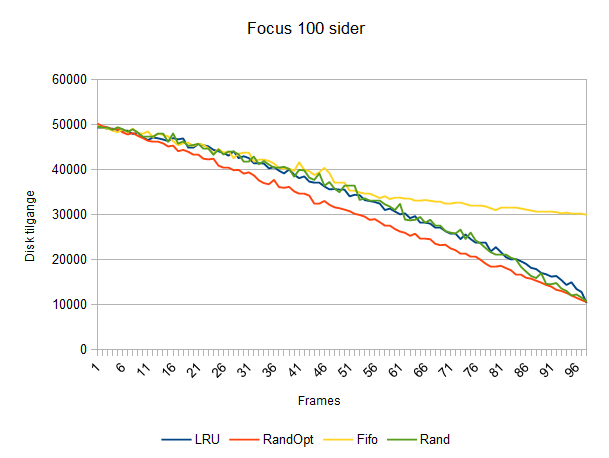
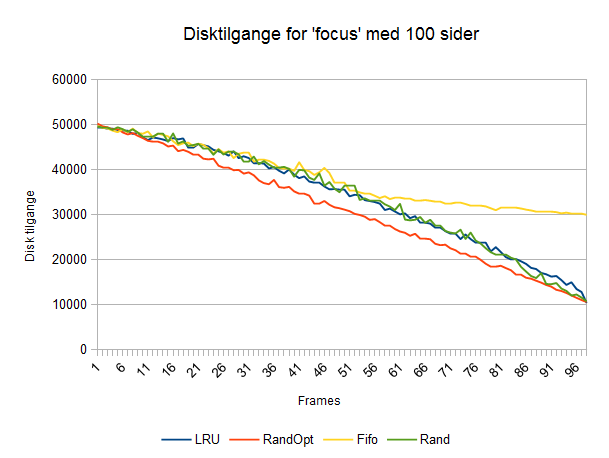
nye titler på grafer

Changed region(s): [[0.2808, 0.0306, 0.78, 0.0917]]

diff --git a/Mand3/Rapport/04_diskussion.tex b/Mand3/Rapport/04_diskussion.tex
@@ -7,7 +7,7 @@ De tre simulerede programkørsler rand, scan og focus er blevet kørt 100 gange 
 \begin{figure}[ht]
 \centerline{\includegraphics[scale=1]{graph/stat_all}}
 \FloatBarrier
-\caption{Alle kørsler summeret}
+\caption{Summeret kørsler for alle programmer med 100 sider}
 \label{fig:all}
 \end{figure}
 
@@ -17,7 +17,7 @@ Programmet "Scan" består af 10 sekventielle løb gennem alt data. Det kan  hver
 \begin{figure}[ht]
 \centerline{\includegraphics[scale=1]{graph/stat_scan}}
 \FloatBarrier
-\caption{Alle kørsler summeret}
+\caption{'Scan' kørt med 100 sider}
 \label{fig:scan}
 \end{figure}
 
